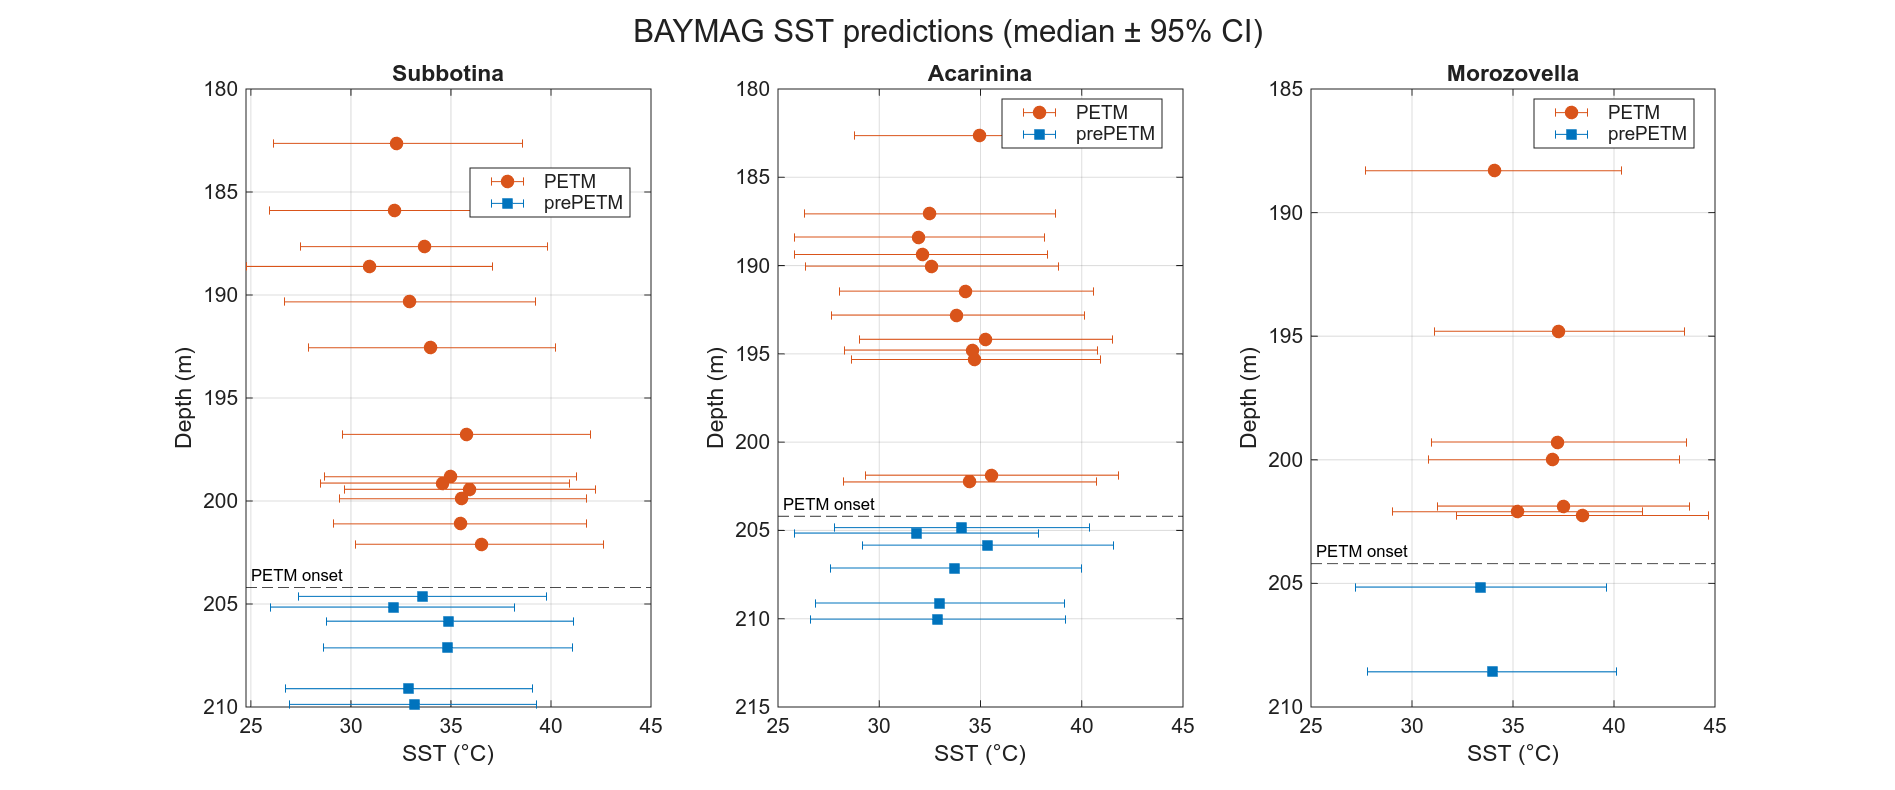
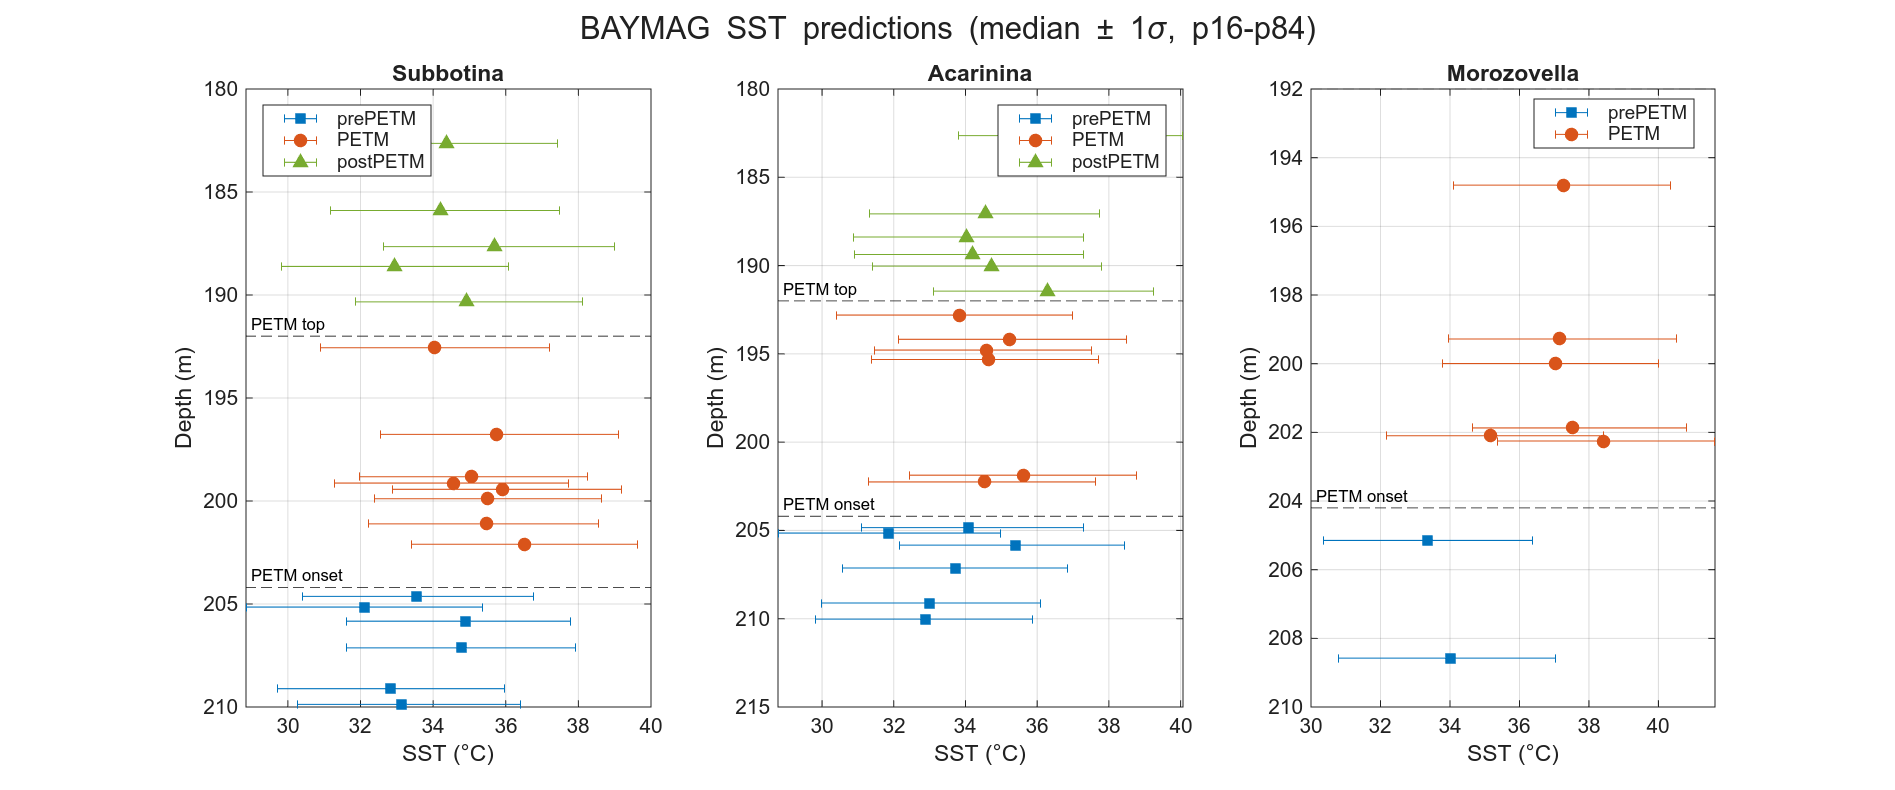
update

diff --git a/Babila_mgca_test.m b/Babila_mgca_test.m
@@ -32,11 +32,12 @@ species_map = {
 age_prePETM = 56.0;   % Ma
 age_PETM    = 55.9;   % Ma
 
-% Depth cutoff (in meters) separating prePETM from PETM.
-% Rows with depth > petm_depth_cutoff_m are prePETM (deeper = older).
-% Rows with depth <= petm_depth_cutoff_m are PETM.
-% Adjust this value to match the PETM onset in your core.
-petm_depth_cutoff_m = 204.2;   % meters (~670 ft); rows deeper = prePETM, shallower = PETM
+% Depth cutoffs (in meters) defining the three intervals:
+%   prePETM:  depth > 204.2 m  (> 670 ft)   -- older
+%   PETM:     192.0 - 204.2 m  (630-670 ft) -- peak event
+%   postPETM: depth < 192.0 m  (< 630 ft)   -- younger; uses prePETM params
+petm_bottom_m = 204.2;   % PETM onset  (~670 ft)
+petm_top_m    = 192.0;   % PETM top    (~630 ft)
 
 % --- prePETM environmental parameters ---
 omega_prePETM    = 4.282963753;     % bottom water calcite saturation state
@@ -92,19 +93,23 @@ fprintf('Depth column:  "%s"\n\n', T.Properties.VariableNames{depthIdx});
 %% Locate Species column
 speciesIdx = find(strcmpi(colNames, 'species') | strcmpi(colNames, 'taxon'), 1);
 
-%% Split table into prePETM and PETM intervals
-depth_vals = T{:, depthIdx};
-petm_mask    = depth_vals <= petm_depth_cutoff_m;
-prepetm_mask = depth_vals >  petm_depth_cutoff_m;
+%% Split table into three intervals
+depth_vals   = T{:, depthIdx};
+prepetm_mask = depth_vals >  petm_bottom_m;
+petm_mask    = depth_vals >= petm_top_m & depth_vals <= petm_bottom_m;
+postpetm_mask= depth_vals <  petm_top_m;
 
-fprintf('Interval split at depth = %.1f m:\n', petm_depth_cutoff_m);
-fprintf('  PETM:    %d rows (depth <= %.1f m)\n', sum(petm_mask),    petm_depth_cutoff_m);
-fprintf('  prePETM: %d rows (depth >  %.1f m)\n\n', sum(prepetm_mask), petm_depth_cutoff_m);
+fprintf('Interval breakdown:\n');
+fprintf('  prePETM:  %d rows (depth > %.1f m / > 670 ft)\n',          sum(prepetm_mask),  petm_bottom_m);
+fprintf('  PETM:     %d rows (%.1f - %.1f m / 630-670 ft)\n',         sum(petm_mask),     petm_top_m, petm_bottom_m);
+fprintf('  postPETM: %d rows (depth < %.1f m / < 630 ft)\n\n',        sum(postpetm_mask), petm_top_m);
 
 %% Define intervals to process
+% postPETM uses same omega/pH as prePETM
 intervals = {
-    'PETM',    T(petm_mask, :),    age_PETM,    omega_PETM,    salinity_PETM,    pH_PETM;
-    'prePETM', T(prepetm_mask, :), age_prePETM, omega_prePETM, salinity_prePETM, pH_prePETM;
+    'prePETM',  T(prepetm_mask,  :), age_prePETM, omega_prePETM, salinity_prePETM, pH_prePETM;
+    'PETM',     T(petm_mask,     :), age_PETM,    omega_PETM,    salinity_PETM,    pH_PETM;
+    'postPETM', T(postpetm_mask, :), age_prePETM, omega_prePETM, salinity_prePETM, pH_prePETM;
 };
 
 %% Loop over intervals and species
@@ -177,22 +182,28 @@ for iInt = 1:size(intervals, 1)
                 sum(output.rhat > 1.1), int_name, excel_species);
         end
 
+        % Compute p16 and p84 from ensemble
+        sst_p16 = prctile(output.ens, 16, 2);
+        sst_p84 = prctile(output.ens, 84, 2);
+
         % Attach predictions to table
         Tsp.interval       = repmat({int_name},       Nobs, 1);
         Tsp.baymag_species = repmat({baymag_species}, Nobs, 1);
         Tsp.SST_2p5  = output.SST(:, 1);
+        Tsp.SST_16   = sst_p16;
         Tsp.SST_50   = output.SST(:, 2);
+        Tsp.SST_84   = sst_p84;
         Tsp.SST_97p5 = output.SST(:, 3);
         Tsp.Rhat     = output.rhat;
 
         all_rows = [all_rows; Tsp]; %#ok<AGROW>
 
         % Print results
-        fprintf('  %-8s  %-10s  %-10s  %-10s  %-6s\n', ...
-            'Row', 'Mg/Ca', 'SST_2.5%', 'SST_50%', 'Rhat');
+        fprintf('  %-8s  %-10s  %-8s  %-10s  %-8s  %-6s\n', ...
+            'Row', 'Mg/Ca', 'SST_16%', 'SST_50%', 'SST_84%', 'Rhat');
         for i = 1:Nobs
-            fprintf('  %-8d  %-10.3f  %-10.2f  %-10.2f  %-6.3f\n', ...
-                i, mgca(i), output.SST(i,1), output.SST(i,2), output.rhat(i));
+            fprintf('  %-8d  %-10.3f  %-8.2f  %-10.2f  %-8.2f  %-6.3f\n', ...
+                i, mgca(i), sst_p16(i), output.SST(i,2), sst_p84(i), output.rhat(i));
         end
         fprintf('\n');
 
@@ -212,9 +223,9 @@ end
 
 %% Plot SST vs depth for each species
 species_list  = unique(all_rows.Species, 'stable');
-interval_list = {'PETM', 'prePETM'};
-colors = struct('PETM', [0.85 0.33 0.10], 'prePETM', [0.00 0.45 0.74]);
-markers = struct('PETM', 'o', 'prePETM', 's');
+interval_list = {'prePETM', 'PETM', 'postPETM'};
+colors  = struct('prePETM', [0.00 0.45 0.74], 'PETM', [0.85 0.33 0.10], 'postPETM', [0.47 0.67 0.19]);
+markers = struct('prePETM', 's',              'PETM', 'o',               'postPETM', '^');
 
 depth_col = T.Properties.VariableNames{depthIdx};
 
@@ -235,8 +246,8 @@ for iSp = 1:length(species_list)
 
         depth  = all_rows.(depth_col)(mask);
         sst_50 = all_rows.SST_50(mask);
-        err_lo = all_rows.SST_50(mask) - all_rows.SST_2p5(mask);
-        err_hi = all_rows.SST_97p5(mask) - all_rows.SST_50(mask);
+        err_lo = all_rows.SST_50(mask) - all_rows.SST_16(mask);
+        err_hi = all_rows.SST_84(mask) - all_rows.SST_50(mask);
         col    = colors.(int_name);
         mkr    = markers.(int_name);
 
@@ -248,8 +259,10 @@ for iSp = 1:length(species_list)
         leg_labels{end+1}  = int_name; %#ok<AGROW>
     end
 
-    % Mark PETM onset depth
-    yline(petm_depth_cutoff_m, '--k', 'PETM onset', ...
+    % Mark PETM interval boundaries
+    yline(petm_bottom_m, '--k', 'PETM onset', ...
+        'LabelHorizontalAlignment', 'left', 'FontSize', 8);
+    yline(petm_top_m, '--k', 'PETM top', ...
         'LabelHorizontalAlignment', 'left', 'FontSize', 8);
 
     set(gca, 'YDir', 'reverse');
@@ -263,7 +276,7 @@ for iSp = 1:length(species_list)
     box on;
 end
 
-sgtitle('BAYMAG SST predictions (median ± 95% CI)');
+sgtitle('BAYMAG SST predictions (median ± 1\sigma, p16-p84)');
 
 % Save figure
 saveas(gcf, 'Babila_SST_plot.png');
